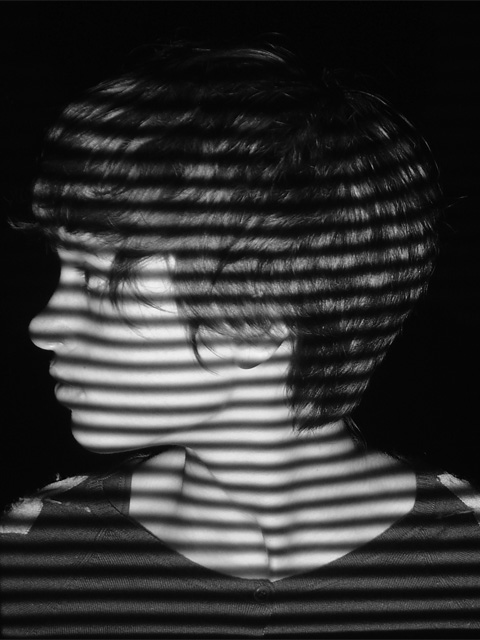
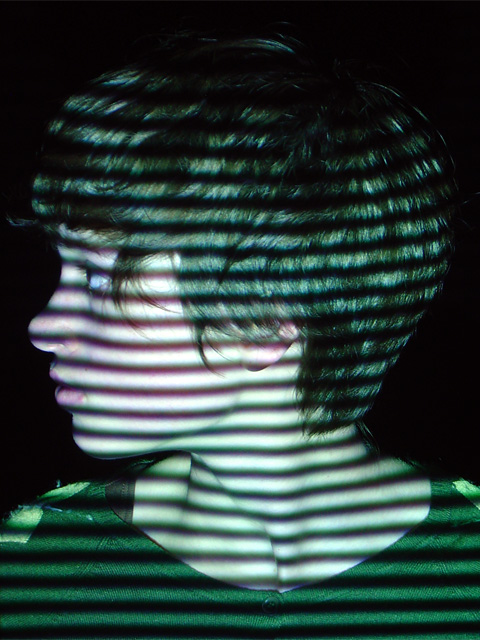
uploaded better photos w/ color, added color recognition and display to points

diff --git a/slDecode/ThreePhaseDecoder.cpp b/slDecode/ThreePhaseDecoder.cpp
@@ -15,21 +15,19 @@ void ThreePhaseDecoder::setup(int width, int height, float zskew, float zscale, 
 	this->zscale = zscale;
 	this->noiseTolerance = noiseTolerance;
 
-	phase1Image.allocate(width, height, OF_IMAGE_COLOR);
-	phase2Image.allocate(width, height, OF_IMAGE_COLOR);
-	phase3Image.allocate(width, height, OF_IMAGE_COLOR);
-
 	toProcess.reserve(height * width);
 
 	wrapphase = new float*[height];
 	mask = new bool*[height];
 	process = new bool*[height];
 	depth = new float*[height];
+	color = new unsigned char*[height];
 	for(int i = 0; i < height; i++) {
 		wrapphase[i] = new float[width];
 		mask[i] = new bool[width];
 		process[i] = new bool[width];
 		depth[i] = new float[width];
+		color[i] = new unsigned char[width * 3];
 	}
 }
 
@@ -49,10 +47,8 @@ float** ThreePhaseDecoder::getDepth() {
 	return depth;
 }
 
-void ThreePhaseDecoder::decode() {
-  phaseWrap();
-  phaseUnwrap();
-  makeDepth();
+unsigned char** ThreePhaseDecoder::getColor() {
+	return color;
 }
 
 void ThreePhaseDecoder::loadImages(
@@ -64,9 +60,35 @@ void ThreePhaseDecoder::loadImages(
   phase2Image.loadImage(phase2Filename);
   phase3Image.loadImage(phase3Filename);
 
+	unsigned char* phase1Pixels = phase1Image.getPixels();
+	unsigned char* phase2Pixels = phase2Image.getPixels();
+	unsigned char* phase3Pixels = phase3Image.getPixels();
+
+  for(int y = 0; y < height; y++) {
+  	int offset = y * width * 3;
+  	for(int xc = 0; xc < width * 3; xc++) {
+  		color[y][xc] = maximum(
+				phase1Pixels[offset],
+				phase2Pixels[offset],
+				phase3Pixels[offset]);
+  		offset++;
+  	}
+  }
+
+	// this could be sped up by loading the files into
+	// a color image, and doing our own color->grayscale
+	// conversion. that cuts down on re-allocation and
+	// conversion time.
+
   phase1Image.setImageType(OF_IMAGE_GRAYSCALE);
   phase2Image.setImageType(OF_IMAGE_GRAYSCALE);
   phase3Image.setImageType(OF_IMAGE_GRAYSCALE);
+}
+
+void ThreePhaseDecoder::decode(int offset) {
+  phaseWrap();
+  phaseUnwrap();
+  makeDepth(offset);
 }
 
 void ThreePhaseDecoder::phaseWrap() {
@@ -190,9 +212,10 @@ void ThreePhaseDecoder::phaseUnwrap(const float& r, int x, int y) {
   toProcess.push_back(cur);
 }
 
-void ThreePhaseDecoder::makeDepth() {
+void ThreePhaseDecoder::makeDepth(int offset) {
 	for (int y = 0; y < height; y ++) {
     float planephase = 0.5 - (y - (height / 2)) / zskew;
+    planephase += ((float) offset) / 3.;
     for (int x = 0; x < width; x++)
       if (!mask[y][x])
         depth[y][x] = (wrapphase[y][x] - planephase) * zscale;
@@ -201,6 +224,6 @@ void ThreePhaseDecoder::makeDepth() {
 
 ThreePhaseDecoder::~ThreePhaseDecoder() {
 	for(int i = 0; i < height; i++)
-		delete [] wrapphase[i], mask[i], process[i], depth[i];
-	delete [] wrapphase, mask, process, depth;
+		delete [] wrapphase[i], mask[i], process[i], depth[i], color[i];
+	delete [] wrapphase, mask, process, depth, color;
 }

diff --git a/slDecode/testApp.cpp b/slDecode/testApp.cpp
@@ -1,11 +1,11 @@
 #include "testApp.h"
 
-void testApp::setup(){
-	decoder.setup(ofGetWidth(), ofGetHeight(), 23, 140);
-	decoder.loadImages("phase1.jpg", "phase2.jpg", "phase3.jpg");
-
+void testApp::timeDecoder() {
 	FastTimer fastTimer;
-
+	decoder.loadImages(
+		files[0],
+		files[1],
+		files[2]);
 	float itr = 50;
 	fastTimer.start();
 	for(int i = 0; i < itr; i++)
@@ -13,6 +13,16 @@ void testApp::setup(){
 	fastTimer.stop();
 	float fps = (itr / fastTimer.getSeconds());
 	cout << fps << " fps / " << (1000 / fps) << " ms" << endl;
+}
+
+void testApp::setup() {
+	decoder.setup(ofGetWidth(), ofGetHeight(), 24, 140);
+
+	files.push_back("phase1.jpg");
+	files.push_back("phase2.jpg");
+	files.push_back("phase3.jpg");
+
+	timeDecoder();
 
 	camera.setup(this, 512);
 
@@ -20,10 +30,17 @@ void testApp::setup(){
 	ofSetColor(255, 255, 255);
 }
 
-void testApp::update(){
+void testApp::update() {
+	int position = ofGetFrameNum();
+	int size = files.size();
+	decoder.loadImages(
+		files[(position + 0) % size],
+		files[(position + 1) % size],
+		files[(position + 2) % size]);
+	decoder.decode((position + 1) % 3);
 }
 
-void testApp::draw(){
+void testApp::draw() {
   camera.draw();
 
 	int width = decoder.getWidth();
@@ -31,11 +48,14 @@ void testApp::draw(){
 
 	bool** mask = decoder.getMask();
 	float** depth = decoder.getDepth();
+	unsigned char** color = decoder.getColor();
   int step = 2;
   glBegin(GL_POINTS);
   for (int y = step; y < height; y += step)
     for (int x = step; x < width; x += step)
-      if (!mask[y][x])
+      if (!mask[y][x]) {
+      	ofSetColor(color[y][x * 3], color[y][x * 3 + 1], color[y][x * 3 + 2]);
         glVertex3f(x, y, depth[y][x]);
+      }
   glEnd();
 }

diff --git a/slDecode/ThreePhaseDecoder.h b/slDecode/ThreePhaseDecoder.h
@@ -19,7 +19,8 @@ public:
 	int getHeight();
 	bool** getMask();
 	float** getDepth();
-	void decode();
+	unsigned char** getColor();
+	void decode(int offset = 0);
 	~ThreePhaseDecoder();
 	ofImage phase1Image, phase2Image, phase3Image;
 private:
@@ -30,7 +31,7 @@ private:
 		const unsigned char& phase3);
 	void phaseUnwrap();
 	inline void phaseUnwrap(const float& r, int x, int y);
-	void makeDepth();
+	void makeDepth(int offset);
 
 	float noiseTolerance, zskew, zscale;
 	int width, height;
@@ -41,4 +42,5 @@ private:
 	bool** mask;
 	bool** process;
 	float** depth;
+	unsigned char** color;
 };

diff --git a/slDecode/testApp.h b/slDecode/testApp.h
@@ -10,9 +10,9 @@ public:
 	void setup();
 	void update();
 	void draw();
+	void timeDecoder();
 
 	ThreePhaseDecoder decoder;
-	float zscale, zskew;
-
+	vector<string> files;
 	ofxEasyCam camera;
 };
